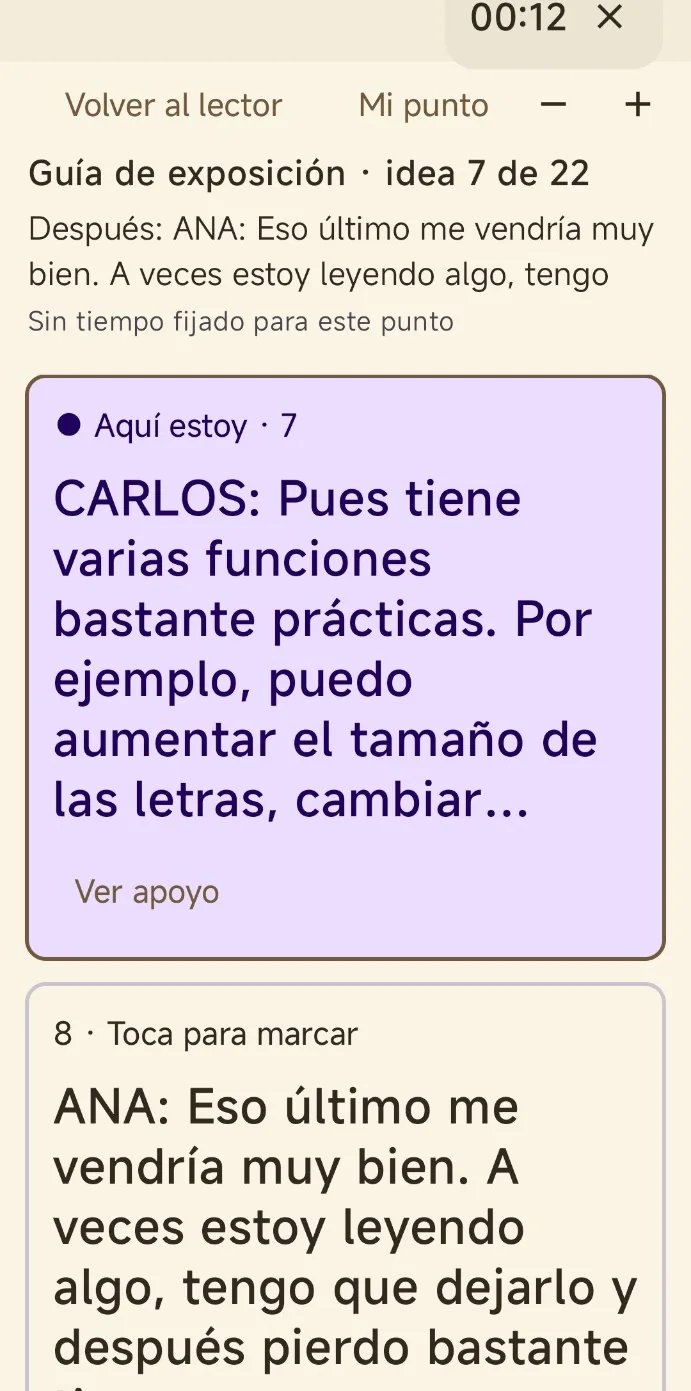
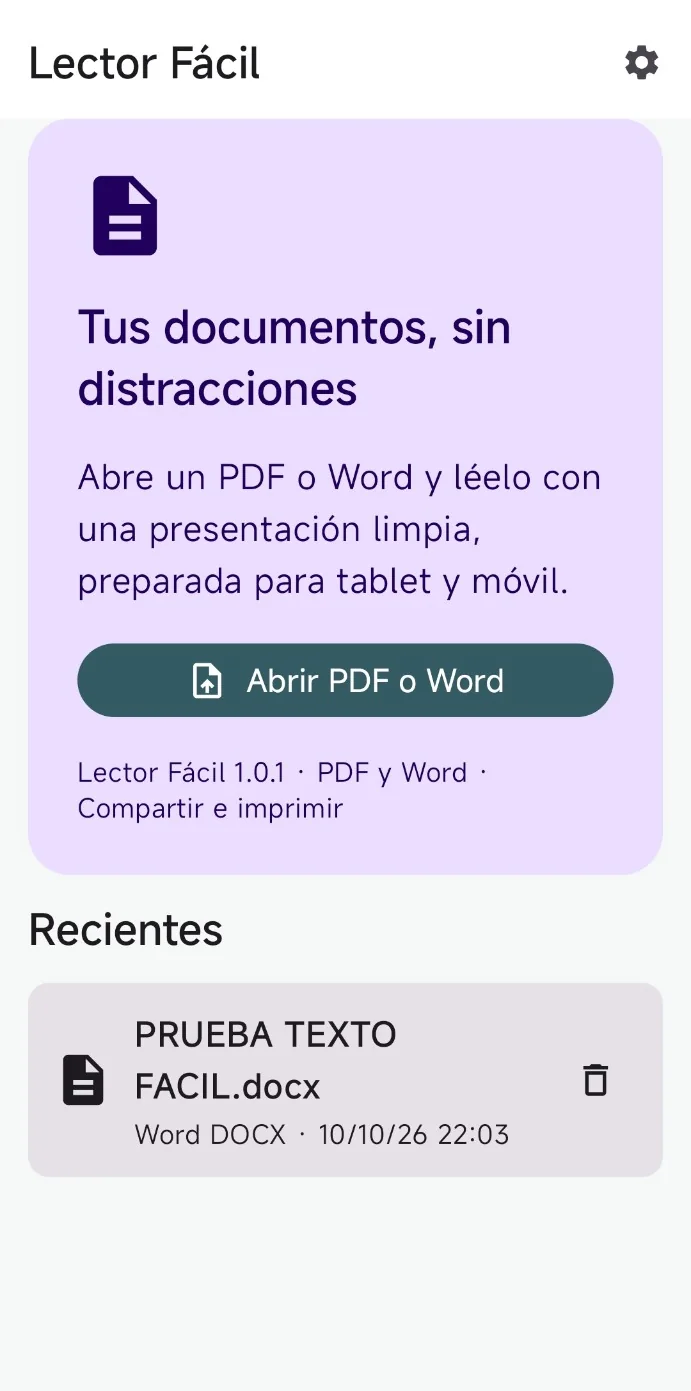
Add files via upload

diff --git a/lector-facil.html b/lector-facil.html
@@ -6,18 +6,19 @@
   <meta name="color-scheme" content="dark">
   <meta name="theme-color" content="#0b1020">
   <meta name="robots" content="index, follow">
-  <meta name="description" content="Lector Fácil 1.0 gratis para Android 8+: abre PDF y Word DOCX, usa teleprompter, resalta interlocutores y exporta PDF para leer o imprimir. Descarga el APK.">
+  <meta name="description" content="Lector Fácil para Android 8+: abre PDF y Word DOCX, usa teleprompter, resalta interlocutores y exporta PDF para leer o imprimir. Descarga el APK.">
   <link rel="canonical" href="https://pastranaalex-glitch.github.io/lector-facil.html">
   <link rel="sitemap" type="application/xml" title="Mapa del sitio" href="/sitemap.xml">
   <meta property="og:type" content="website">
   <meta property="og:locale" content="es_ES">
   <meta property="og:title" content="Lector Fácil gratis para Android | PDF, Word y teleprompter">
-  <meta property="og:description" content="Descarga Lector Fácil 1.0: lectura de PDF y DOCX, intervenciones resaltadas y PDF listo para imprimir. Sin publicidad ni donaciones.">
+  <meta property="og:description" content="Descarga Lector Fácil: lectura de PDF y DOCX, intervenciones resaltadas y PDF listo para imprimir. Sin publicidad ni donaciones.">
   <meta property="og:url" content="https://pastranaalex-glitch.github.io/lector-facil.html">
   <meta name="twitter:card" content="summary">
+<meta property="og:image" content="https://pastranaalex-glitch.github.io/captura-01-inicio.webp">
   <link rel="icon" type="image/svg+xml" href="favicon.svg">
   <title>Lector Fácil gratis para Android | Leer PDF, Word y teleprompter</title>
-  <script type="application/ld+json">{"@context":"https://schema.org","@type":"SoftwareApplication","name":"Lector Fácil","description":"Aplicación gratuita para Android que permite leer PDF y DOCX, preparar intervenciones con teleprompter, diferenciar interlocutores y exportar PDF para lectura o impresión.","url":"https://pastranaalex-glitch.github.io/lector-facil.html","downloadUrl":"https://github.com/pastranaalex-glitch/lector-facil/releases/download/v1.0.0/LectorFacil-v1.0.apk","softwareVersion":"1.0","applicationCategory":"ProductivityApplication","operatingSystem":"Android 8.0 o superior","inLanguage":"es","offers":{"@type":"Offer","price":"0","priceCurrency":"EUR","availability":"https://schema.org/InStock"}}</script>
+  <script type="application/ld+json">{"@context":"https://schema.org","@type":"SoftwareApplication","name":"Lector Fácil","description":"Aplicación gratuita para Android que permite leer PDF y DOCX, preparar intervenciones con teleprompter, diferenciar interlocutores y exportar PDF para lectura o impresión.","url":"https://pastranaalex-glitch.github.io/lector-facil.html","downloadUrl":"https://github.com/pastranaalex-glitch/lector-facil/releases/latest","softwareVersion":"1.0.1","applicationCategory":"ProductivityApplication","operatingSystem":"Android 8.0 o superior","inLanguage":"es","offers":{"@type":"Offer","price":"0","priceCurrency":"EUR","availability":"https://schema.org/InStock"}}</script>
   <style>
     :root { color-scheme: dark; --bg: #0b1020; --panel: #141d31; --panel-2: #19243a; --ink: #f2f6ff; --muted: #adbcd0; --line: #2d3c54; --blue: #73d5ff; --green: #9de6cb; --radius: 20px; }
     * { box-sizing: border-box; }
@@ -198,6 +199,51 @@ button.button{font-family:inherit;cursor:pointer;}
 @media(max-width:540px){.gallery-grid{gap:10px}.gallery-card{padding:9px;border-radius:12px}.gallery-screen{height:220px}.gallery-title{font-size:.87rem}.gallery-caption{font-size:.8rem}.gallery-view{font-size:.75rem}.gallery-dialog{padding:10px}}
 @media(prefers-reduced-motion:reduce){.gallery-card{transition:none}}
 
+
+/* Pack 4: capturas reales y presentación más compacta */
+.hero-real{width:min(100%,320px);margin-inline:auto;background:linear-gradient(145deg,#1a2d46,#121d31);border:1px solid #3e5b77;border-radius:24px;padding:15px 14px 12px;box-shadow:0 20px 46px #0005;min-width:0;text-align:center}
+.hero-real-head{display:flex;align-items:center;justify-content:space-between;gap:8px;margin-bottom:13px;color:#d8e9fa;font-size:.73rem;flex-wrap:wrap;text-align:left}
+.real-tag{display:inline-flex;align-items:center;gap:6px;color:#b9f4da;font-weight:800}
+.real-tag>span{color:#8de7c8;font-size:.6rem}
+.real-tag-secondary{color:#adbed6}
+.hero-real-screen{display:block;width:clamp(175px,18vw,208px);height:320px;margin:auto;border:5px solid #2a3546;border-radius:20px;background:#efe7f6;overflow:hidden;box-shadow:0 13px 30px #0008}
+.hero-real-screen:focus-visible{outline:3px solid #8fe8ff;outline-offset:4px}
+.hero-real-screen img{display:block;width:100%;height:100%;object-fit:cover;object-position:top center}
+.hero-real-foot{font-size:.77rem;color:#bacde2;margin:12px 0 0}
+.hero-real-foot a{color:#a2e8ff;text-underline-offset:3px;font-weight:750}
+@media(max-width:800px){.hero-real{margin:0 auto}.hero-real-screen{width:200px}}
+@media(max-width:430px){.hero-real{width:min(100%,285px)}.hero-real-screen{height:302px;width:185px}}
+
+/* Pack 4: descarga visible y datos reales de GitHub Releases */
+.detail-columns{grid-template-columns:minmax(0,1fr) minmax(255px,320px);align-items:start;gap:28px}
+.detail-hero{padding:26px 0 50px}
+.detail-hero h1{font-size:clamp(2rem,3.8vw,3.2rem);margin:17px 0 15px}
+.detail-hero .lead{font-size:1rem}
+.detail-hero .facts{margin-top:17px}
+.download-panel{margin-top:24px;padding:19px 20px 16px;border:1px solid #4b879b;background:linear-gradient(155deg,#1c3449,#131e35);border-radius:18px;box-shadow:0 10px 32px #0003}
+.download-panel-top{display:flex;align-items:center;justify-content:space-between;flex-wrap:wrap;gap:8px}
+.download-panel-top h2{margin:0;font-size:1.12rem;letter-spacing:-.02em}
+.download-free{font-size:.74rem;font-weight:800;border:1px solid #397968;border-radius:100px;color:#b9f5dc;padding:4px 10px}
+.download-facts{display:grid;grid-template-columns:repeat(3,minmax(0,1fr));gap:0;margin:18px 0 20px;border:1px solid #385369;border-radius:12px;background:#101d30;overflow:hidden}
+.download-fact{min-width:0;padding:12px 10px;border-right:1px solid #385369;display:flex;flex-direction:column;gap:4px}
+.download-fact:last-child{border-right:0}
+.download-fact span{font-size:.72rem;color:#b7cbe1;line-height:1.35}
+.download-fact strong{font-size:clamp(.97rem,1.3vw,1.25rem);font-variant-numeric:tabular-nums;color:#e7f6ff;overflow-wrap:anywhere}
+.download-primary{width:100%;min-height:54px;font-size:1rem;border-radius:12px;text-align:center}
+.download-caption{color:#b6e5fa;font-size:.76rem;margin:11px 0 0}
+.download-footnote{font-size:.78rem;color:#bdcede;margin:9px 0 0;line-height:1.5}
+.auxiliary-actions{margin-top:15px;gap:10px}
+@media(max-width:900px){.detail-columns{grid-template-columns:1fr}.detail-hero .hero-real{margin:12px auto 0}}
+@media(max-width:450px){
+ .download-panel{padding:15px}
+ .download-facts{grid-template-columns:repeat(2,minmax(0,1fr))}
+ .download-fact{padding:11px 10px}
+ .download-fact:nth-child(2){border-right:0}
+ .download-fact:last-child{grid-column:1/-1;border-top:1px solid #385369}
+ .download-fact strong{font-size:1.03rem}
+ .download-fact span{font-size:.72rem}
+}
+
 </style>
 </head>
 <body>
@@ -214,16 +260,27 @@ button.button{font-family:inherit;cursor:pointer;}
         <span class="eyebrow">✓ Aplicación gratuita para Android</span>
         <h1>Lector Fácil: <span>lee, prepara y comparte documentos.</span></h1>
         <p class="lead">Abre documentos PDF y Word (.docx), sigue una presentación con teleprompter y distingue las intervenciones de cada interlocutor. Comparte un PDF cómodo para leer o uno optimizado para imprimir.</p>
-        <div class="facts"><span class="chip">Android 8.0 o superior</span><span class="chip" id="version-chip">Versión 1.0.0</span><span class="chip">Sin publicidad ni pagos</span></div>
-        <div class="actions"><a class="button primary" id="download-link" href="https://github.com/pastranaalex-glitch/lector-facil/releases/download/v1.0.0/LectorFacil-v1.0.apk" target="_blank" rel="noopener noreferrer">↓ Descargar APK gratuito</a><a class="button secondary" href="#capturas">Ver fotos reales</a><button type="button" class="button secondary" data-share="site" data-share-title="Lector Fácil: aplicación gratuita para Android" data-share-url="https://pastranaalex-glitch.github.io/lector-facil.html">Compartir página ↗</button></div>
-        <div class="stats-row" aria-live="polite"><strong id="download-count">Consultando…</strong><span id="download-caption">descargas del APK en GitHub</span></div>
-        <p class="small-meta">Descarga alojada en GitHub Releases. No requiere registrar una cuenta para descargar el APK.</p>
+        <div class="facts"><span class="chip">Android 8.0 o superior</span><span class="chip">Sin anuncios ni pagos</span><span class="chip">Actualizaciones gratuitas</span></div>
+        <div class="download-panel" aria-label="Descargar Lector Fácil para Android">
+          <div class="download-panel-top"><h2>Descarga Lector Fácil</h2><span class="download-free">100 % gratuito</span></div>
+          <div class="download-facts" aria-live="polite">
+            <div class="download-fact"><span>Última versión</span><strong id="version-metric">Consultando…</strong></div>
+            <div class="download-fact"><span>Tamaño del APK</span><strong id="apk-size">Consultando…</strong></div>
+            <div class="download-fact"><span>Descargas acumuladas</span><strong id="download-count">Consultando…</strong></div>
+          </div>
+          <a class="button primary download-primary" id="download-link" href="https://github.com/pastranaalex-glitch/lector-facil/releases/latest" target="_blank" rel="noopener noreferrer">↓ Descargar APK gratuito</a>
+          <p class="download-caption" id="download-caption">Descargas contabilizadas en todas las versiones publicadas.</p>
+          <p class="download-footnote">El archivo se descarga desde GitHub. No necesitas registrarte. Las actualizaciones se instalan manualmente.</p>
+        </div>
+        <div class="actions auxiliary-actions"><a class="button secondary" href="#capturas">Ver fotos reales</a><button type="button" class="button secondary" data-share="site" data-share-title="Lector Fácil: aplicación gratuita para Android" data-share-url="https://pastranaalex-glitch.github.io/lector-facil.html">Compartir página ↗</button></div>
       </div>
-      <div class="hero-art" role="img" aria-label="Ilustración esquemática, no captura real, de la lectura de un documento con una intervención resaltada">
-        <div class="mock-toolbar"><span class="dot"></span><span class="dot"></span><span class="dot"></span><strong>Vista ilustrativa de Lector Fácil</strong></div>
-        <div class="reader"><div class="reader-title">Leer con más comodidad</div><div class="line"></div><div class="line"></div><div class="line"></div><div class="line"></div><div class="focus-line"></div></div>
-        <div class="mock-bottom"><span>Ilustración, no captura real</span><span>100 % gratuito</span></div>
-      </div>
+      <aside class="hero-real" aria-label="Captura auténtica de Lector Fácil">
+  <div class="hero-real-head"><span class="real-tag"><span aria-hidden="true">●</span> Imagen real</span><span class="real-tag-secondary">Android · Lector Fácil</span></div>
+  <a class="hero-real-screen" href="#capturas" aria-label="Ver galería de fotografías reales de Lector Fácil">
+    <img src="captura-01-inicio.webp" alt="Pantalla real de Lector Fácil 1.0.1 con el botón Abrir PDF o Word y la lista de documentos recientes" width="691" height="1391" decoding="async" fetchpriority="high">
+  </a>
+  <p class="hero-real-foot">Pantalla principal · <a href="#capturas">Ver las 6 capturas ↗</a></p>
+</aside>
     </div></section>
     <section class="detail-subsection alt" id="funciones"><div class="wrap">
       <h2 class="section-title">Qué puedes hacer con Lector Fácil</h2>

diff --git a/index.html b/index.html
@@ -14,6 +14,7 @@
   <meta property="og:description" content="Descarga aplicaciones gratuitas, empezando por Lector Fácil para Android. Proyecto personal sin ánimo de lucro.">
   <meta property="og:url" content="https://pastranaalex-glitch.github.io/">
   <meta name="twitter:card" content="summary">
+<meta property="og:image" content="https://pastranaalex-glitch.github.io/captura-01-inicio.webp">
   <link rel="sitemap" type="application/xml" title="Mapa del sitio" href="/sitemap.xml">
   <link rel="icon" type="image/svg+xml" href="favicon.svg">
   <title>Biblioteca de herramientas | Aplicaciones gratis para Android</title>
@@ -148,6 +149,22 @@ button.button{font-family:inherit;cursor:pointer;}
 @media(max-width:750px){.nav{align-items:flex-start;justify-content:center;}.nav .brand{width:100%;justify-content:center;}.nav nav{justify-content:center;}.access-tools{margin-left:0;}}
 @media(max-width:500px){.nav{gap:8px;}.nav nav{gap:7px 12px;}.nav nav a{font-size:.82rem;}.release-card{padding:15px;}.access-tools button{min-height:38px;min-width:38px;}}
 
+
+/* Pack 4: capturas reales y presentación más compacta */
+.hero-real{width:min(100%,320px);margin-inline:auto;background:linear-gradient(145deg,#1a2d46,#121d31);border:1px solid #3e5b77;border-radius:24px;padding:15px 14px 12px;box-shadow:0 20px 46px #0005;min-width:0;text-align:center}
+.hero-real-head{display:flex;align-items:center;justify-content:space-between;gap:8px;margin-bottom:13px;color:#d8e9fa;font-size:.73rem;flex-wrap:wrap;text-align:left}
+.real-tag{display:inline-flex;align-items:center;gap:6px;color:#b9f4da;font-weight:800}
+.real-tag>span{color:#8de7c8;font-size:.6rem}
+.real-tag-secondary{color:#adbed6}
+.hero-real-screen{display:block;width:clamp(175px,18vw,208px);height:320px;margin:auto;border:5px solid #2a3546;border-radius:20px;background:#efe7f6;overflow:hidden;box-shadow:0 13px 30px #0008}
+.hero-real-screen:focus-visible{outline:3px solid #8fe8ff;outline-offset:4px}
+.hero-real-screen img{display:block;width:100%;height:100%;object-fit:cover;object-position:top center}
+.hero-real-foot{font-size:.77rem;color:#bacde2;margin:12px 0 0}
+.hero-real-foot a{color:#a2e8ff;text-underline-offset:3px;font-weight:750}
+@media(max-width:800px){.hero-real{margin:0 auto}.hero-real-screen{width:200px}}
+@media(max-width:430px){.hero-real{width:min(100%,285px)}.hero-real-screen{height:302px;width:185px}}
+
+@media(min-width:801px){.hero-grid{grid-template-columns:minmax(0,1.45fr) minmax(280px,.55fr);gap:38px}.hero{padding:56px 0 58px}}
 </style>
 </head>
 <body>
@@ -165,14 +182,16 @@ button.button{font-family:inherit;cursor:pointer;}
         <div>
           <span class="eyebrow">✓ Proyecto personal · Sin ánimo de lucro</span>
           <h1>Programas útiles.<br><span>Gratis para todos.</span></h1>
-          <p class="lead">Un espacio para compartir aplicaciones y herramientas desarrolladas por afición. Sin compras, sin publicidad y sin donaciones.</p>
+          <p class="lead">Aplicaciones útiles para móvil y ordenador, realizadas por afición. Descubre Lector Fácil para Android, con descarga gratuita y fotografías reales. Sin pagos, publicidad ni donaciones.</p>
           <div class="actions"><a class="button primary" href="#programas">Explorar programas ↓</a><a class="button secondary" href="#proyecto">Conocer el proyecto</a></div>
         </div>
-        <div class="hero-art" role="img" aria-label="Ilustración de una aplicación de lectura con un documento y una línea resaltada">
-          <div class="mock-toolbar"><span class="dot"></span><span class="dot"></span><span class="dot"></span><strong>Lector Fácil · Vista de ejemplo</strong></div>
-          <div class="reader"><div class="reader-title">Una lectura más cómoda</div><div class="line"></div><div class="line"></div><div class="line"></div><div class="line"></div><div class="focus-line"></div></div>
-          <div class="mock-bottom"><span>Diseño de muestra, no captura real</span><span>100 % gratuito</span></div>
-        </div>
+        <aside class="hero-real" aria-label="Captura auténtica de Lector Fácil">
+  <div class="hero-real-head"><span class="real-tag"><span aria-hidden="true">●</span> Imagen real</span><span class="real-tag-secondary">Android · Lector Fácil</span></div>
+  <a class="hero-real-screen" href="lector-facil.html#capturas" aria-label="Ver galería de fotografías reales de Lector Fácil">
+    <img src="captura-01-inicio.webp" alt="Pantalla real de Lector Fácil 1.0.1 con el botón Abrir PDF o Word y la lista de documentos recientes" width="691" height="1391" decoding="async" fetchpriority="high">
+  </a>
+  <p class="hero-real-foot">Pantalla principal · <a href="lector-facil.html#capturas">Ver las 6 capturas ↗</a></p>
+</aside>
       </div>
     </section>
     <section id="programas" class="content">

diff --git a/biblioteca.js b/biblioteca.js
@@ -1,10 +1,11 @@
-/* Biblioteca de herramientas · Pack 2. No requiere cuentas ni cookies de seguimiento. */
+/* Biblioteca de herramientas · Pack 4. No requiere cuentas ni cookies de seguimiento. */
 (() => {
   'use strict';
   const $ = id => document.getElementById(id);
   const repo = 'pastranaalex-glitch/lector-facil';
   const githubBase = `https://github.com/${repo}/releases`;
   const esNumber = n => Number(n).toLocaleString('es-ES');
+  const formatMb = bytes => Number.isFinite(bytes) && bytes > 0 ? `${new Intl.NumberFormat('es-ES',{minimumFractionDigits:1,maximumFractionDigits:1}).format(bytes / 1e6)} MB` : 'Consultar en GitHub';
   const setText = (id, value) => { const el=$(id); if(el) el.textContent=value; };
   const getApks = release => (Array.isArray(release.assets) ? release.assets : []).filter(a => a && typeof a.name === 'string' && /\.apk$/i.test(a.name));
   const allowedGitHubUrl = url => {
@@ -68,18 +69,27 @@
       const apks=releases.flatMap(getApks);
       const total=apks.reduce((sum,asset)=>sum+Math.max(0,Number(asset.download_count)||0),0);
       setText('download-count',esNumber(total));
-      setText('download-caption',total===1?'Descarga pública del APK':'Descargas públicas del APK');
-      const latest=releases.find(r => getApks(r).length);
+      setText('download-caption',total===1?'1 descarga registrada en GitHub Releases.':'Descargas acumuladas de los APK publicados en GitHub Releases.');
+      const latest=releases.find(r => getApks(r).some(a => allowedGitHubUrl(a.browser_download_url)));
       if(latest){
         setText('version-chip',document.body.querySelector('.detail-hero')?`Versión ${latest.tag_name}`:`Disponible · ${latest.tag_name}`);
         setText('latest-version-label',`Última versión: ${latest.tag_name}`);
+        setText('version-metric',latest.tag_name);
         const asset=getApks(latest).find(a => allowedGitHubUrl(a.browser_download_url));
-        if(asset && $('download-link')) $('download-link').href=allowedGitHubUrl(asset.browser_download_url);
+        if(asset){
+          setText('apk-size',formatMb(Number(asset.size)));
+          if($('download-link')) $('download-link').href=allowedGitHubUrl(asset.browser_download_url);
+        }
+      } else {
+        setText('version-metric','Consultar en GitHub');
+        setText('apk-size','Consultar en GitHub');
       }
       renderReleases(releases);
     } catch (_){
       setText('download-count','—');
-      setText('download-caption','Contador temporalmente no disponible');
+      setText('download-caption','Estadísticas temporalmente no disponibles; puedes descargar desde GitHub.');
+      setText('version-metric','Consultar en GitHub');
+      setText('apk-size','Consultar en GitHub');
       setText('latest-version-label','Puedes consultar las últimas versiones en GitHub.');
       const box=$('releases-list');
       if(box){
